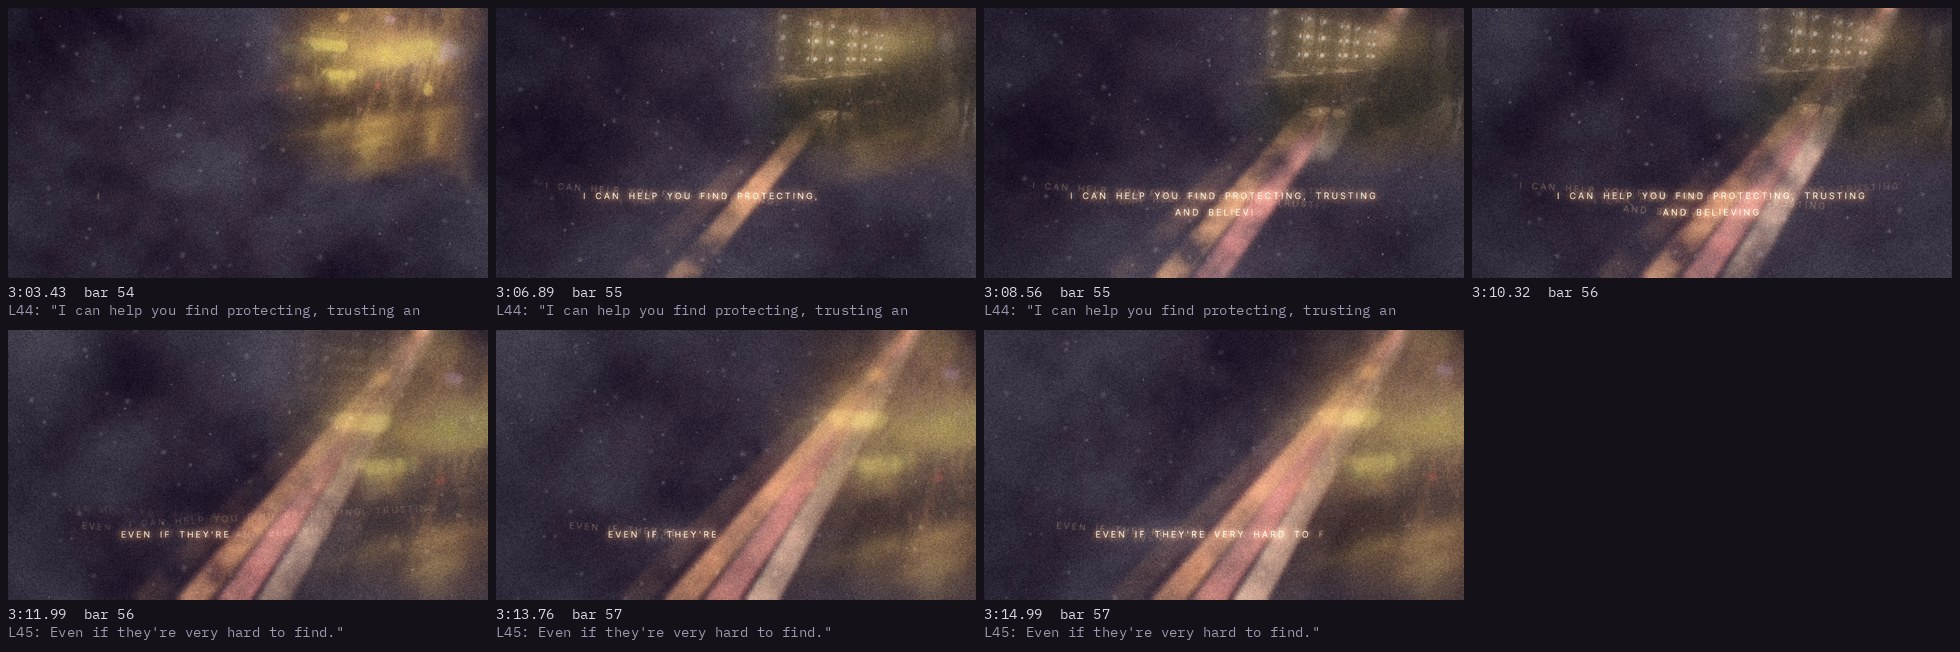
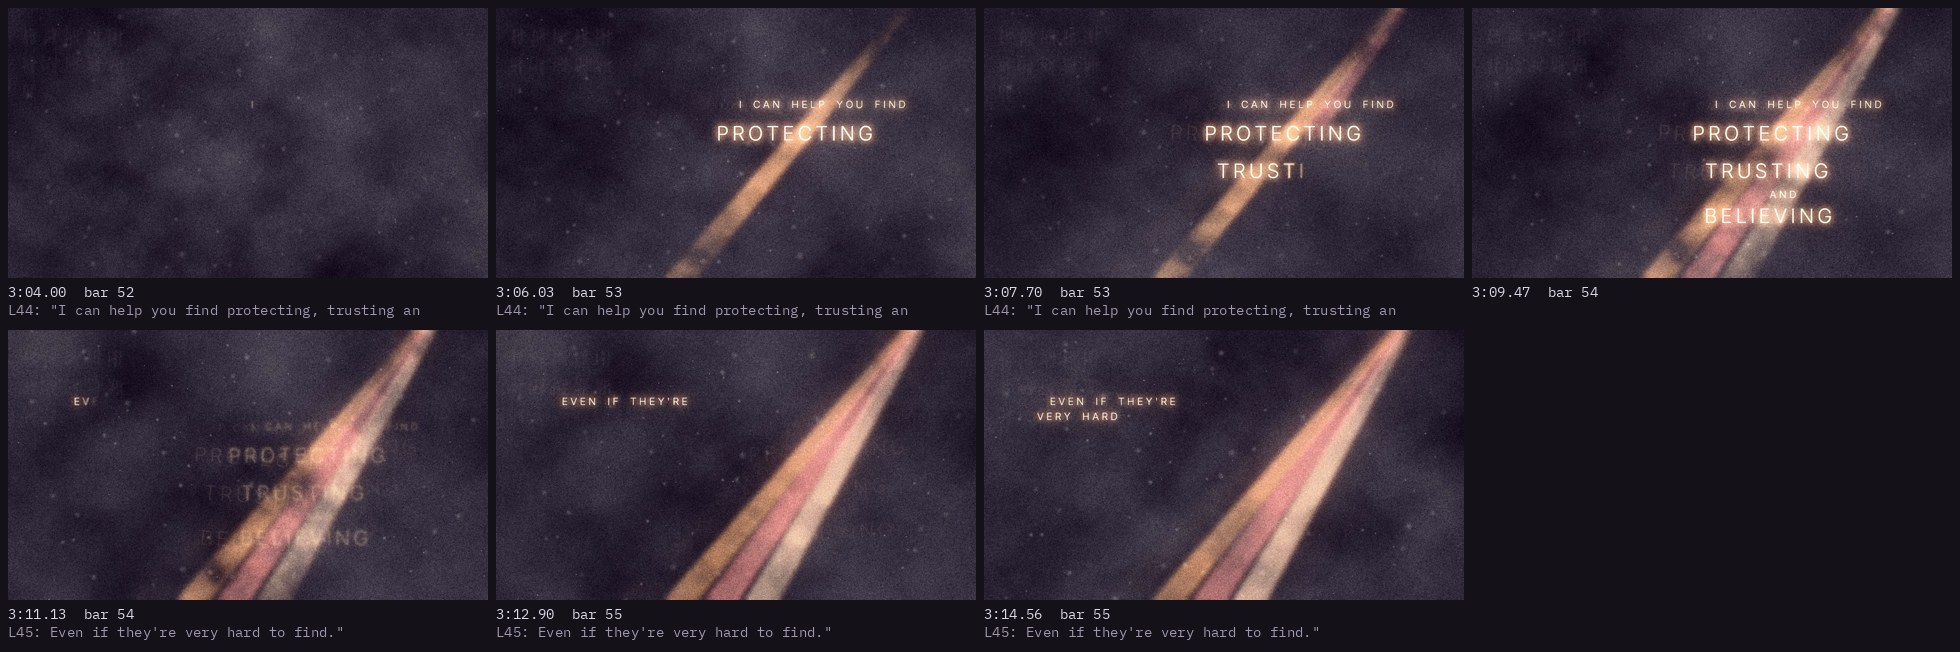
Spoken scenes: no exposure ghost copies of his still words
Claude-Session: https://claude.ai/code/session_013aPae8dR11r7xw8o95d9Yi

diff --git a/video/sections.py b/video/sections.py
@@ -525,7 +525,7 @@ def spoken(name, reopen=None, shots=None):
                          targets=BEAM_TARGETS, strength=0.85)
         sh = shots or {n: dict(voice="him") for n in lines}
         img = kin(T, name, lines, sh, voice="him", hold=1.6).draw(img, t)
-        return img, post("night", exposure=0.95)
+        return img, post("night", exposure=0.95, ghosts=())   # still words: no ghost copies
     return scene
 
 
